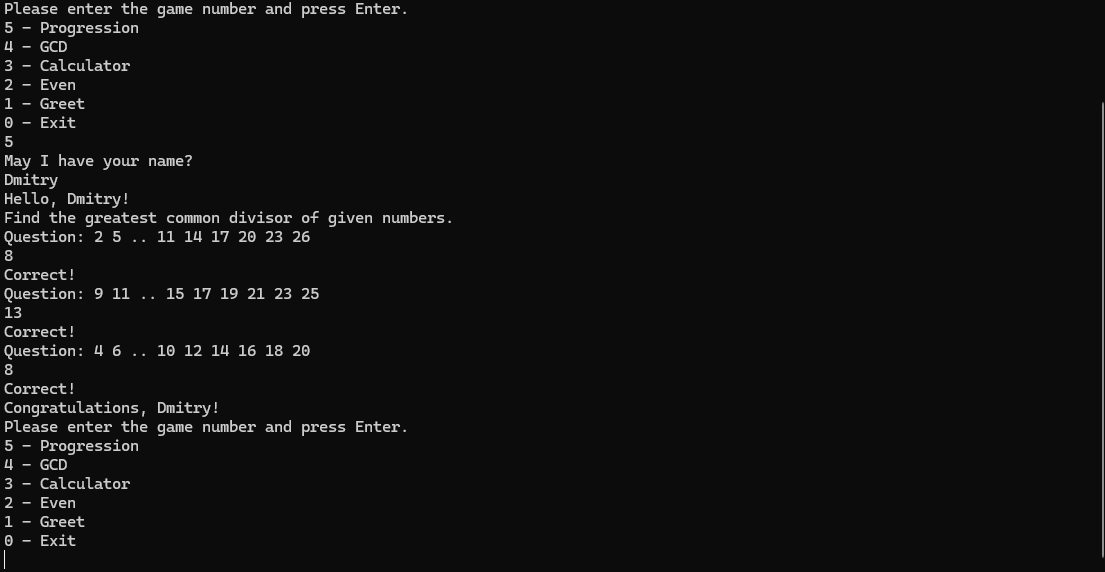
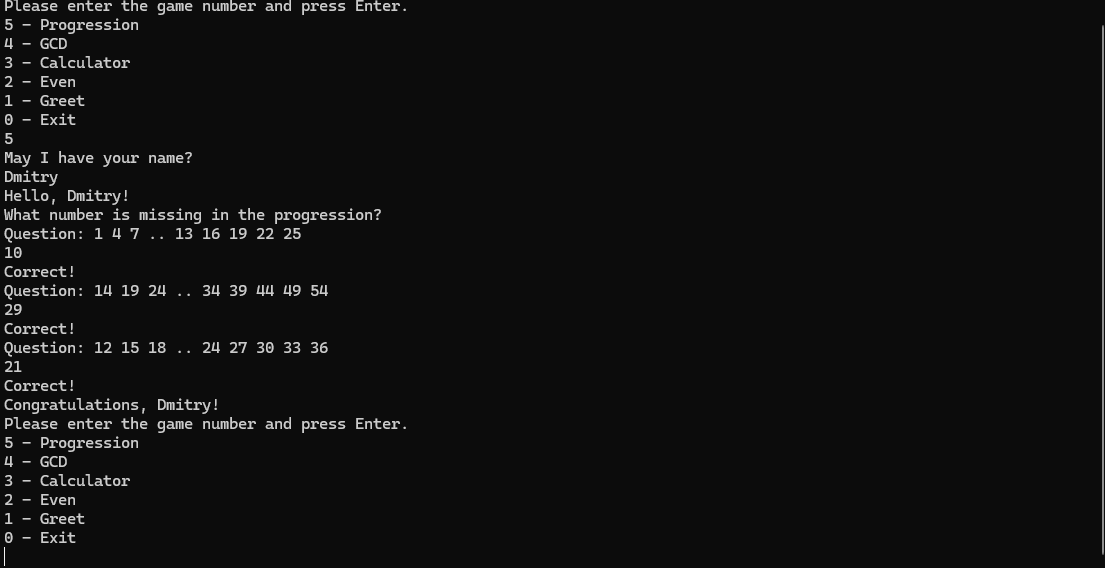
Bugfix Progression task message & screenshots

diff --git a/app/src/main/java/hexlet/code/Game.java b/app/src/main/java/hexlet/code/Game.java
@@ -165,7 +165,7 @@ public class Game {
     }
     // Игра Прогрессия.
     public static void progression() {
-        Engine.dispGreetAndInit(3);
+        Engine.dispGreetAndInit(4);
 
         String lostNumber;
         var index = Engine.generator.nextInt(8) + 1;
